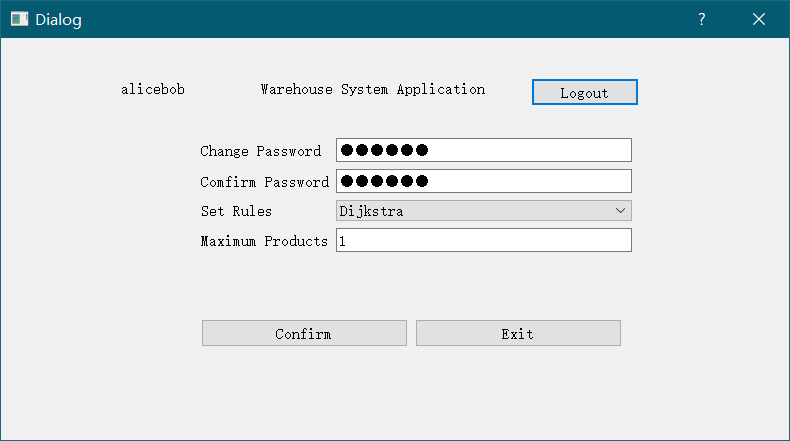
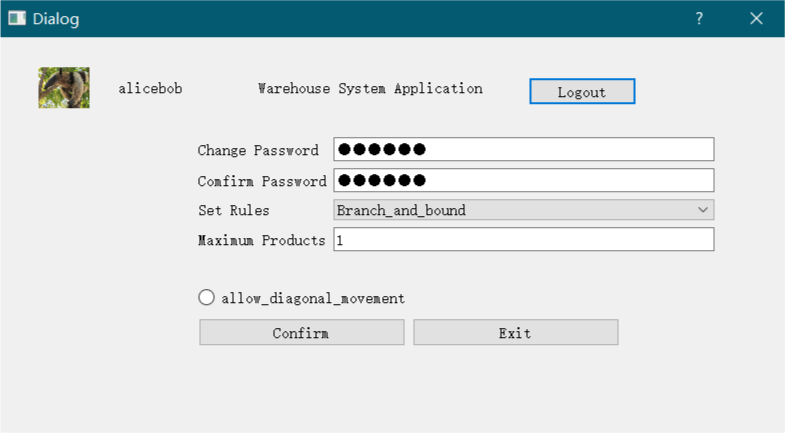
remove logout

diff --git a/UI/profile.py b/UI/profile.py
@@ -19,9 +19,6 @@ class Profile_UI(QDialog):
         self.label_username = QtWidgets.QLabel(Profile)
         self.label_username.setGeometry(QtCore.QRect(120, 40, 101, 21))
         self.label_username.setObjectName("label_username")
-        self.pushButton_logout = QtWidgets.QPushButton(Profile)
-        self.pushButton_logout.setGeometry(QtCore.QRect(530, 40, 108, 28))
-        self.pushButton_logout.setObjectName("pushButton_logout")
         self.label_title = QtWidgets.QLabel(Profile)
         self.label_title.setGeometry(QtCore.QRect(260, 30, 311, 41))
         self.label_title.setObjectName("label_title")
@@ -89,7 +86,6 @@ class Profile_UI(QDialog):
         _translate = QtCore.QCoreApplication.translate
         Profile.setWindowTitle(_translate("Profile", "Dialog"))
         self.label_username.setText(_translate("Profile", "alicebob"))
-        self.pushButton_logout.setText(_translate("Profile", "Logout"))
         self.label_title.setText(_translate("Profile", "Warehouse System Application"))
         self.label_change_password.setText(_translate("Profile", "Change Password"))
         self.label_confirm_password.setText(_translate("Profile", "Comfirm Password"))
@@ -115,7 +111,6 @@ class Profile_UI(QDialog):
         self.label_image.setPixmap(img)
 
     def add_event_listener(self):
-        self.pushButton_logout.clicked.connect(self.reject)
         self.pushButton_exit.clicked.connect(self.reject)
         self.pushButton_confirm.clicked.connect(self.confirm)
 

diff --git a/UI/main_window.py b/UI/main_window.py
@@ -65,9 +65,6 @@ class Main_UI(QMainWindow):
         self.pushButton_add_orders_from_file.setObjectName("pushButton_add_orders_from_file")
         self.horizontalLayout_3.addWidget(self.pushButton_add_orders_from_file)
         self.verticalLayout.addLayout(self.horizontalLayout_3)
-        self.pushButton_logout = QtWidgets.QPushButton(self.centralwidget)
-        self.pushButton_logout.setGeometry(QtCore.QRect(1070, 40, 191, 28))
-        self.pushButton_logout.setObjectName("pushButton_logout")
         self.label_title = QtWidgets.QLabel(self.centralwidget)
         self.label_title.setGeometry(QtCore.QRect(400, 30, 421, 41))
         self.label_title.setObjectName("label_title")
@@ -133,7 +130,6 @@ class Main_UI(QMainWindow):
         self.label_products_id.setText(_translate("MainWindow", "Product(s) ID:"))
         self.pushButton_add_order.setText(_translate("MainWindow", "Add an order"))
         self.pushButton_add_orders_from_file.setText(_translate("MainWindow", "Add orders from file"))
-        self.pushButton_logout.setText(_translate("MainWindow", "Logout"))
         self.label_title.setText(_translate("MainWindow", "                 Warehouse System Application"))
         self.pushButton_profile.setText(_translate("MainWindow", "Profile"))
         self.label_start_x.setText(_translate("MainWindow", "start x"))

diff --git a/objs/WareHouse.py b/objs/WareHouse.py
@@ -38,6 +38,7 @@ class WareHouse:
         self.timeout = 60
         self.shelf_list = []
         self.allow_diagonal_movement = False
+        self.f = None
 
     def set_rules(self, num):
         if num == 0:
